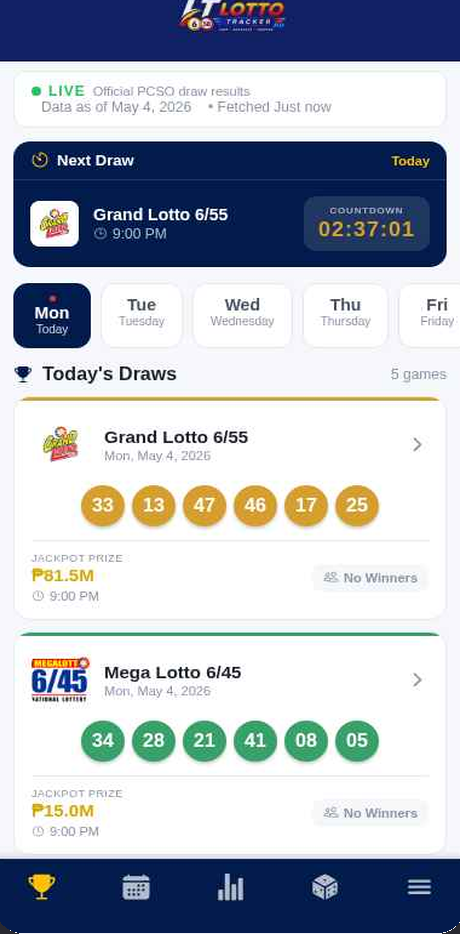
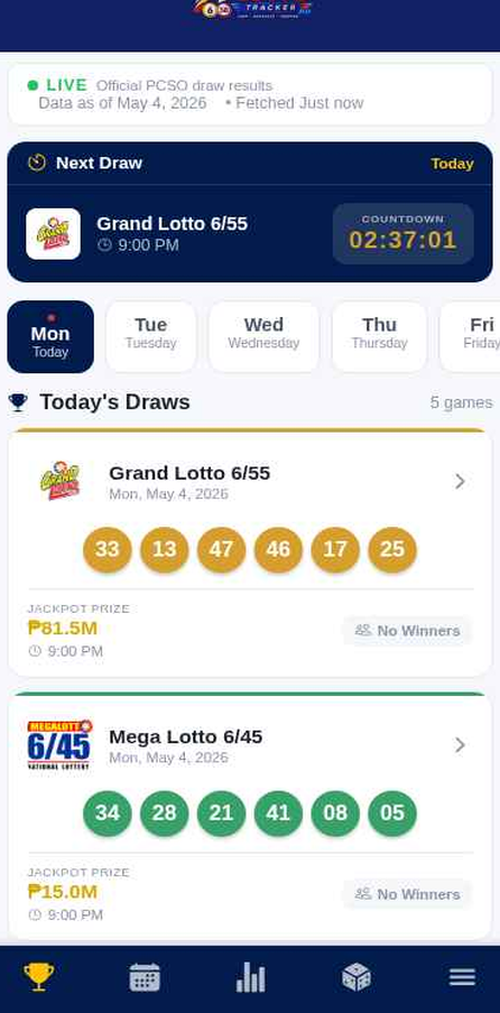
Add files via upload

Changed region(s): [[0.0, 0.0, 1.0, 1.0], [0.8826, 0.4657, 0.9435, 0.4968]]

diff --git a/styles.css b/styles.css
@@ -229,55 +229,105 @@ section { padding: 110px 0; }
 .meta-item span { font-size: 0.78rem; color: rgba(200, 215, 250, 0.55); font-weight: 600; margin-top: 2px; }
 .meta-divider { width: 1px; height: 36px; background: var(--line-dark); }
 
-/* ═══════════ PHONE FRAME (real screenshots) ═══════════ */
+/* ═══════════ PHONE FRAME (premium product-mockup style, no notch) ═══════════ */
 .phone-frame {
   position: relative;
   width: 250px;
-  aspect-ratio: 9 / 19;
-  border-radius: 38px;
-  background: linear-gradient(160deg, #1c2a4a 0%, #0a1228 100%);
-  border: 1px solid rgba(130, 170, 255, 0.22);
-  padding: 9px;
-  box-shadow: var(--shadow-card), 0 0 80px -30px rgba(56, 150, 255, 0.45);
-  overflow: hidden;
+  aspect-ratio: 9 / 19.2;
+  border-radius: 44px;
+  /* metallic bezel — subtle gradient for depth */
+  background:
+    linear-gradient(160deg, #2a3a5f 0%, #131c36 40%, #0a1124 100%);
+  padding: 7px;
+  box-shadow:
+    0 36px 70px -22px rgba(2, 6, 18, 0.7),
+    0 14px 36px -16px rgba(2, 6, 18, 0.55),
+    0 0 0 1px rgba(255, 255, 255, 0.06),
+    inset 0 0 0 1px rgba(255, 255, 255, 0.08),
+    0 0 100px -30px rgba(56, 150, 255, 0.45);
 }
+/* subtle inner bezel ring */
+.phone-frame::before {
+  content: '';
+  position: absolute;
+  inset: 5px;
+  border-radius: 39px;
+  pointer-events: none;
+  background: #0a1124;
+  z-index: 1;
+}
+/* glass highlight on top-left for depth */
 .phone-frame::after {
   content: '';
   position: absolute;
   inset: 0;
   border-radius: inherit;
   pointer-events: none;
-  background: linear-gradient(135deg, rgba(255, 255, 255, 0.06), transparent 35%);
-  z-index: 4;
+  background:
+    linear-gradient(135deg, rgba(255, 255, 255, 0.1) 0%, rgba(255, 255, 255, 0) 30%),
+    linear-gradient(225deg, rgba(255, 255, 255, 0.04) 0%, transparent 25%);
+  z-index: 5;
 }
-.phone-notch {
-  position: absolute;
-  top: 14px; left: 50%;
-  transform: translateX(-50%);
-  width: 84px; height: 18px;
-  border-radius: 99px;
-  background: #06080f;
-  z-index: 3;
-  box-shadow: inset 0 -1px 1px rgba(255, 255, 255, 0.05);
-}
+/* The screen area — fills the bezel inset, has its own clipping */
 .phone-screenshot {
+  position: relative;
   width: 100%;
   height: 100%;
-  border-radius: 30px;
+  border-radius: 37px;
   object-fit: cover;
   object-position: top;
   display: block;
   background: #f4f6fb;
+  z-index: 2;
+  box-shadow: inset 0 0 0 1px rgba(0, 0, 0, 0.5);
 }
+/* Tiny side buttons for realism (volume + power) */
+.phone-frame .phone-btn-vol,
+.phone-frame .phone-btn-pwr {
+  position: absolute;
+  width: 3px;
+  border-radius: 2px;
+  background: linear-gradient(90deg, rgba(255,255,255,0.08), rgba(0,0,0,0.4));
+  z-index: 0;
+}
+.phone-frame .phone-btn-vol {
+  left: -2px;
+  top: 26%;
+  height: 38px;
+  box-shadow: 0 60px 0 0 currentColor;
+  color: transparent;
+}
+.phone-frame .phone-btn-vol::after {
+  content: '';
+  position: absolute;
+  left: 0; top: 56px;
+  width: 3px; height: 60px;
+  background: inherit;
+  border-radius: 2px;
+}
+.phone-frame .phone-btn-pwr {
+  right: -2px;
+  top: 30%;
+  height: 60px;
+}
+/* legacy .phone-notch from previous version — hide if present (we removed notch design) */
+.phone-notch { display: none; }
 
-/* hero phones layout */
-.hero-visual { position: relative; height: 580px; }
-.phone-main { position: absolute; left: 8%; top: 16px; z-index: 2; animation: floaty 7s ease-in-out infinite; }
+/* hero phones layout — more dynamic, polished composition */
+.hero-visual { position: relative; height: 600px; perspective: 1400px; }
+.phone-main {
+  position: absolute;
+  left: 18%; top: 40px;
+  z-index: 3;
+  width: 240px;
+  transform: rotateY(-4deg) rotateX(2deg);
+  animation: floaty 7s ease-in-out infinite;
+}
 .phone-back {
   position: absolute;
-  right: 2%; top: 90px;
-  transform: rotate(7deg) scale(0.92);
-  opacity: 0.97;
+  right: 4%; top: 110px;
+  width: 220px;
+  transform: rotateY(8deg) rotateX(2deg) rotate(6deg);
   z-index: 1;
   animation: floaty 8.5s ease-in-out 0.8s infinite;
 }
@@ -397,55 +447,72 @@ section { padding: 110px 0; }
 .glow-lotto { background: radial-gradient(circle, rgba(46, 110, 246, 0.6), rgba(230, 70, 60, 0.22)); }
 .glow-bible { background: radial-gradient(circle, rgba(120, 180, 255, 0.55), rgba(250, 210, 120, 0.22)); }
 
-/* Phone gallery: 3 phones layered */
+/* Phone gallery: 3 phones layered — premium product showcase */
 .phone-gallery {
   position: relative;
   width: 100%;
-  max-width: 460px;
-  height: 480px;
+  max-width: 500px;
+  height: 540px;
   display: flex;
   justify-content: center;
   align-items: center;
+  perspective: 1600px;
 }
 .phone-gallery-main {
-  width: 230px;
-  z-index: 3;
-  box-shadow: var(--shadow-card), 0 0 100px -30px rgba(56, 150, 255, 0.6);
+  width: 240px;
+  z-index: 4;
+  box-shadow:
+    0 50px 90px -30px rgba(2, 6, 18, 0.85),
+    0 0 0 1px rgba(255,255,255,0.06),
+    0 0 120px -30px rgba(56, 150, 255, 0.65);
   animation: floaty 7s ease-in-out infinite;
+  transform: translateY(-10px);
 }
 .phone-gallery-side {
-  width: 180px;
+  width: 200px;
   position: absolute;
   z-index: 1;
-  opacity: 0.92;
-  filter: saturate(0.95) brightness(0.92);
 }
 .phone-gallery-left {
-  left: 0;
+  left: 4%;
   top: 50%;
-  transform: translateY(-50%) rotate(-9deg);
+  transform: translateY(-50%) rotateY(14deg) rotate(-10deg);
   animation: floaty 8s ease-in-out 0.4s infinite;
 }
 .phone-gallery-right {
-  right: 0;
+  right: 4%;
   top: 50%;
-  transform: translateY(-50%) rotate(9deg);
+  transform: translateY(-50%) rotateY(-14deg) rotate(10deg);
   animation: floaty 8s ease-in-out 0.8s infinite;
 }
-.project-card:hover .phone-gallery-main { transform: translateY(-8px); }
+/* Soft floor reflection */
+.phone-gallery::after {
+  content: '';
+  position: absolute;
+  bottom: 20px;
+  left: 50%;
+  transform: translateX(-50%);
+  width: 70%;
+  height: 36px;
+  background: radial-gradient(ellipse at center, rgba(56, 150, 255, 0.35) 0%, transparent 65%);
+  filter: blur(18px);
+  z-index: 0;
+  pointer-events: none;
+}
+.project-card:hover .phone-gallery-main { transform: translateY(-18px); }
 
 .project-app-icon {
   position: absolute;
-  width: 84px; height: 84px;
-  border-radius: 22px;
+  width: 76px; height: 76px;
+  border-radius: 20px;
   object-fit: cover;
   z-index: 5;
   box-shadow: 0 20px 44px -12px rgba(0, 0, 0, 0.6);
   border: 1px solid rgba(255, 255, 255, 0.14);
   animation: floaty 7s ease-in-out infinite;
 }
-.icon-lotto { bottom: 28px; left: 50%; transform: translateX(-180%); }
-.icon-bible { bottom: 28px; left: 50%; transform: translateX(80%); }
+.icon-lotto { bottom: 20px; left: 50%; transform: translateX(-220%); }
+.icon-bible { bottom: 20px; left: 50%; transform: translateX(120%); }
 
 .project-kicker { display: flex; align-items: center; gap: 16px; margin-bottom: 18px; }
 .project-num {
@@ -831,9 +898,12 @@ section { padding: 110px 0; }
   .meta-item strong { font-size: 0.95rem; }
   .meta-item span { font-size: 0.74rem; }
 
-  .phone-gallery { height: 420px; max-width: 360px; }
+  .phone-gallery { height: 460px; max-width: 380px; }
   .phone-gallery-main { width: 200px; }
-  .phone-gallery-side { width: 150px; }
+  .phone-gallery-side { width: 160px; }
+  .project-app-icon { width: 64px; height: 64px; }
+  .icon-lotto { transform: translateX(-180%); }
+  .icon-bible { transform: translateX(80%); }
 
   .founder-card { flex-direction: column; align-items: center; text-align: center; }
   .founder-photo { width: 130px; height: 130px; }
